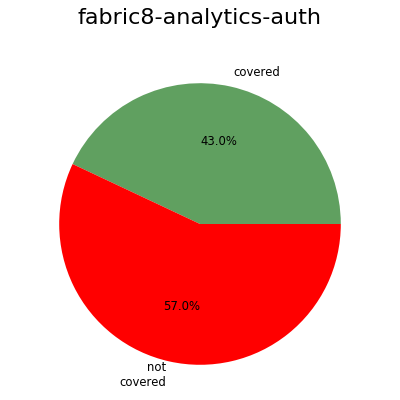
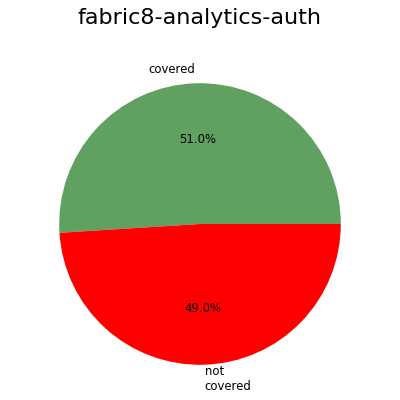
Dashboard 2018-06-04

diff --git a/dashboard/fabric8-analytics-auth.cc.A.html b/dashboard/fabric8-analytics-auth.cc.A.html
@@ -5,27 +5,34 @@
 tests/test_user_class.py
     <span style="color:#AA00AA">F </span>7:0 test_user_class - <span style="color:#00AA00">A (2)</span>
 tests/test_token_handling.py
-    <span style="color:#AA00AA">F </span>37:0 test_decode_token_invalid_input_2 - <span style="color:#00AA00">A (3)</span>
-    <span style="color:#AA00AA">F </span>45:0 test_decode_token_invalid_input_3 - <span style="color:#00AA00">A (3)</span>
-    <span style="color:#AA00AA">F </span>53:0 test_decode_token_invalid_input_4 - <span style="color:#00AA00">A (3)</span>
-    <span style="color:#AA00AA">F </span>61:0 test_decode_token_invalid_input_5 - <span style="color:#00AA00">A (3)</span>
-    <span style="color:#AA00AA">F </span>30:0 test_decode_token_invalid_input_1 - <span style="color:#00AA00">A (2)</span>
-    <span style="color:#AA00AA">F </span>10:0 mocked_fetch_public_key_1 - <span style="color:#00AA00">A (1)</span>
-    <span style="color:#AA00AA">F </span>15:0 mocked_fetch_public_key_2 - <span style="color:#00AA00">A (1)</span>
-    <span style="color:#AA00AA">F </span>20:0 mocked_get_audiences - <span style="color:#00AA00">A (1)</span>
-    <span style="color:#AA00AA">F </span>25:0 mocked_get_audiences_2 - <span style="color:#00AA00">A (1)</span>
+    <span style="color:#AA00AA">F </span>12:0 setup_module - <span style="color:#00AA00">A (4)</span>
+    <span style="color:#AA00AA">F </span>76:0 test_decode_token_invalid_input_2 - <span style="color:#00AA00">A (3)</span>
+    <span style="color:#AA00AA">F </span>84:0 test_decode_token_invalid_input_3 - <span style="color:#00AA00">A (3)</span>
+    <span style="color:#AA00AA">F </span>92:0 test_decode_token_invalid_input_4 - <span style="color:#00AA00">A (3)</span>
+    <span style="color:#AA00AA">F </span>100:0 test_decode_token_invalid_input_5 - <span style="color:#00AA00">A (3)</span>
+    <span style="color:#AA00AA">F </span>108:0 test_decode_token_invalid_input_6 - <span style="color:#00AA00">A (3)</span>
+    <span style="color:#AA00AA">F </span>121:0 test_decode_token_invalid_input_7 - <span style="color:#00AA00">A (3)</span>
+    <span style="color:#AA00AA">F </span>69:0 test_decode_token_invalid_input_1 - <span style="color:#00AA00">A (2)</span>
+    <span style="color:#AA00AA">F </span>135:0 test_decode_token_valid_input - <span style="color:#00AA00">A (2)</span>
+    <span style="color:#AA00AA">F </span>34:0 teardown_module - <span style="color:#00AA00">A (1)</span>
+    <span style="color:#AA00AA">F </span>39:0 mocked_fetch_public_key_1 - <span style="color:#00AA00">A (1)</span>
+    <span style="color:#AA00AA">F </span>44:0 mocked_fetch_public_key_2 - <span style="color:#00AA00">A (1)</span>
+    <span style="color:#AA00AA">F </span>49:0 mocked_fetch_public_key_3 - <span style="color:#00AA00">A (1)</span>
+    <span style="color:#AA00AA">F </span>54:0 mocked_get_audiences - <span style="color:#00AA00">A (1)</span>
+    <span style="color:#AA00AA">F </span>59:0 mocked_get_audiences_2 - <span style="color:#00AA00">A (1)</span>
+    <span style="color:#AA00AA">F </span>64:0 mocked_get_audiences_3 - <span style="color:#00AA00">A (1)</span>
 f8a_auth/f8a_auth.py
-    <span style="color:#AA00AA">F </span>50:0 decode_token - <span style="color:#00AA00">B (8)</span>
+    <span style="color:#AA00AA">F </span>50:0 decode_token - <span style="color:#00AA00">B (9)</span>
     <span style="color:#AA00AA">F </span>18:0 fetch_public_key - <span style="color:#00AA00">A (5)</span>
     <span style="color:#AA00AA">F </span>45:0 get_audiences - <span style="color:#00AA00">A (1)</span>
-    <span style="color:#AA00AA">F </span>82:0 get_token_from_auth_header - <span style="color:#00AA00">A (1)</span>
-    <span style="color:#AA00AA">F </span>87:0 login_required - <span style="color:#00AA00">A (1)</span>
-    <span style="color:#00AAAA">C </span>127:0 User - <span style="color:#00AA00">A (1)</span>
-    <span style="color:#00AA00">M </span>130:4 User.__init__ - <span style="color:#00AA00">A (1)</span>
+    <span style="color:#AA00AA">F </span>84:0 get_token_from_auth_header - <span style="color:#00AA00">A (1)</span>
+    <span style="color:#AA00AA">F </span>89:0 login_required - <span style="color:#00AA00">A (1)</span>
+    <span style="color:#00AAAA">C </span>129:0 User - <span style="color:#00AA00">A (1)</span>
+    <span style="color:#00AA00">M </span>132:4 User.__init__ - <span style="color:#00AA00">A (1)</span>
 f8a_auth/errors.py
     <span style="color:#00AAAA">C </span>4:0 HTTPError - <span style="color:#00AA00">A (1)</span>
     <span style="color:#00AA00">M </span>15:4 HTTPError.__init__ - <span style="color:#00AA00">A (1)</span>
 
-22 blocks (classes, functions, methods) analyzed.
-Average complexity: <span style="color:#00AA00">A (2.1363636363636362)</span>
+29 blocks (classes, functions, methods) analyzed.
+Average complexity: <span style="color:#00AA00">A (2.1724137931034484)</span>
 </pre>

diff --git a/dashboard/dashboard.html b/dashboard/dashboard.html
@@ -49,7 +49,7 @@
                                     <a href='https://ci.centos.org/job/devtools-test-end-to-end-prod-fabric8-analytics'>link</a>
                                 </td>
                             <td style="width:3ex">
-                                <a href='https://ci.centos.org/job/devtools-test-end-to-end-prod-fabric8-analytics'>94/100</a>
+                                <a href='https://ci.centos.org/job/devtools-test-end-to-end-prod-fabric8-analytics'>100/100</a>
                             </td>
                         </tr>
                     </table>
@@ -232,8 +232,8 @@
                                     </div>
                                 </a>
                             </td>
-                                <td class="numeric ok" style="width:6ex">1826</td>
-                                <td class="numeric error" style="width:6ex">891</td>
+                                <td class="numeric ok" style="width:6ex">1869</td>
+                                <td class="numeric error" style="width:6ex">924</td>
                                 <td class="numeric" style="width:16ex">
                                     <a href="fabric8-analytics-server.coverage.txt">
                                         <div class='progress-bar progress-bar-warning progress-bar-striped' style='width:58.35%'>
@@ -697,7 +697,7 @@
                         <tr>
                             <td style="width:34ex"><a href="https://github.com/fabric8-analytics/fabric8-analytics-auth">fabric8-analytics-auth</a></td>
                             <td class="numeric" style="width:7ex"><a href="repository_fabric8-analytics-auth.html">8</a></td>
-                            <td class="numeric" style="width:7ex">292</td>
+                            <td class="numeric" style="width:7ex">373</td>
                             <td class="numeric ok" style="width:6ex">8</td>
                             <td class="numeric error" style="width:6ex">0</td>
                             <td class="numeric" style="width:16ex">
@@ -716,17 +716,17 @@
                                     </div>
                                 </a>
                             </td>
-                                <td class="numeric ok" style="width:6ex">89</td>
-                                <td class="numeric error" style="width:6ex">51</td>
+                                <td class="numeric ok" style="width:6ex">91</td>
+                                <td class="numeric error" style="width:6ex">45</td>
                                 <td class="numeric" style="width:16ex">
                                     <a href="fabric8-analytics-auth.coverage.txt">
-                                        <div class='progress-bar progress-bar-warning progress-bar-striped' style='width:51.55%'>
-                                        43%
+                                        <div class='progress-bar progress-bar-warning progress-bar-striped' style='width:58.35%'>
+                                        51%
                                         </div>
                                     </a>
                                 </td>
 
-                                <td class="numeric ignored" style="width:3ex;padding-left:0px;padding-right:2px;"><a href="fabric8-analytics-auth.cc.A.html" class="numeric ignored">21</a></td>
+                                <td class="numeric ignored" style="width:3ex;padding-left:0px;padding-right:2px;"><a href="fabric8-analytics-auth.cc.A.html" class="numeric ignored">28</a></td>
                                 <td class="numeric ignored" style="width:3ex;padding-left:0px;padding-right:2px;"><a href="fabric8-analytics-auth.cc.B.html" class="numeric ignored">1</a></td>
                                 <td class="numeric ignored" style="width:3ex;padding-left:0px;padding-right:2px;"><a href="fabric8-analytics-auth.cc.C.html" class="numeric ignored">0</a></td>
 
@@ -814,7 +814,7 @@
                                     </div>
                                 </a>
                             </td>
-                                <td class="numeric ok" style="width:6ex">178</td>
+                                <td class="numeric ok" style="width:6ex">182</td>
                                 <td class="numeric error" style="width:6ex">0</td>
                                 <td class="numeric" style="width:16ex">
                                     <a href="fabric8-analytics-version-comparator.coverage.txt">
@@ -1244,7 +1244,7 @@
             </div>
             <div style='height:100px'></div>
             <div>Author: Pavel Tisnovsky &lt;<a href="mailto:ptisnovs@redhat.com">ptisnovs@redhat.com</a>&gt;</div>
-            <div>Generated on: 2018-06-01 09:34:51</div>
+            <div>Generated on: 2018-06-04 10:58:25</div>
         </div>
         <script type="text/javascript">
         $(function () {

diff --git a/dashboard/repository_fabric8-analytics-auth.html b/dashboard/repository_fabric8-analytics-auth.html
@@ -44,7 +44,7 @@
                     </tr>
                     <tr>
                         <td><a href="https://github.com/fabric8-analytics/fabric8-analytics-auth/blob/master/tests/test_token_handling.py">tests/test_token_handling.py</a></td>
-                        <td class="numeric">74</td>
+                        <td class="numeric">153</td>
                             <td class="boolean ok">&#x2713;</td>
                             <td class="boolean ok">&#x2713;</td>
                     </tr>
@@ -56,7 +56,7 @@
                     </tr>
                     <tr>
                         <td><a href="https://github.com/fabric8-analytics/fabric8-analytics-auth/blob/master/f8a_auth/f8a_auth.py">f8a_auth/f8a_auth.py</a></td>
-                        <td class="numeric">132</td>
+                        <td class="numeric">134</td>
                             <td class="boolean ok">&#x2713;</td>
                             <td class="boolean ok">&#x2713;</td>
                     </tr>
@@ -76,7 +76,7 @@
             </div>
             <div style='height:100px'></div>
             <div>Author: Pavel Tisnovsky &lt;<a href="mailto:ptisnovs@redhat.com">ptisnovs@redhat.com</a>&gt;</div>
-            <div>Generated on: 2018-06-01 09:34:51</div>
+            <div>Generated on: 2018-06-04 10:58:25</div>
         </div>
     </body>
 </html>

diff --git a/dashboard/fabric8-analytics-auth.mi.A.html b/dashboard/fabric8-analytics-auth.mi.A.html
@@ -2,8 +2,8 @@
 tests/test_errors_class.py - <span style="color:#00AA00">A (61.48)</span>
 tests/test_user_class.py - <span style="color:#00AA00">A (91.90)</span>
 tests/tests.py - <span style="color:#00AA00">A (100.00)</span>
-tests/test_token_handling.py - <span style="color:#00AA00">A (50.26)</span>
+tests/test_token_handling.py - <span style="color:#00AA00">A (51.47)</span>
 f8a_auth/__init__.py - <span style="color:#00AA00">A (100.00)</span>
-f8a_auth/f8a_auth.py - <span style="color:#00AA00">A (53.88)</span>
+f8a_auth/f8a_auth.py - <span style="color:#00AA00">A (52.98)</span>
 f8a_auth/errors.py - <span style="color:#00AA00">A (100.00)</span>
 </pre>

diff --git a/dashboard/fabric8-analytics-auth.cc.B.html b/dashboard/fabric8-analytics-auth.cc.B.html
@@ -1,6 +1,6 @@
 <pre>f8a_auth/f8a_auth.py
-    <span style="color:#AA00AA">F </span>50:0 decode_token - <span style="color:#00AA00">B (8)</span>
+    <span style="color:#AA00AA">F </span>50:0 decode_token - <span style="color:#00AA00">B (9)</span>
 
 1 blocks (classes, functions, methods) analyzed.
-Average complexity: <span style="color:#00AA00">B (8.0)</span>
+Average complexity: <span style="color:#00AA00">B (9.0)</span>
 </pre>

diff --git a/dashboard/repository_f8a-server-backbone.html b/dashboard/repository_f8a-server-backbone.html
@@ -106,7 +106,7 @@
             </div>
             <div style='height:100px'></div>
             <div>Author: Pavel Tisnovsky &lt;<a href="mailto:ptisnovs@redhat.com">ptisnovs@redhat.com</a>&gt;</div>
-            <div>Generated on: 2018-06-01 09:34:51</div>
+            <div>Generated on: 2018-06-04 10:58:25</div>
         </div>
     </body>
 </html>

diff --git a/dashboard/repository_fabric8-analytics-common.html b/dashboard/repository_fabric8-analytics-common.html
@@ -616,7 +616,7 @@
             </div>
             <div style='height:100px'></div>
             <div>Author: Pavel Tisnovsky &lt;<a href="mailto:ptisnovs@redhat.com">ptisnovs@redhat.com</a>&gt;</div>
-            <div>Generated on: 2018-06-01 09:34:51</div>
+            <div>Generated on: 2018-06-04 10:58:25</div>
         </div>
     </body>
 </html>

diff --git a/dashboard/repository_fabric8-analytics-data-model.html b/dashboard/repository_fabric8-analytics-data-model.html
@@ -148,7 +148,7 @@
             </div>
             <div style='height:100px'></div>
             <div>Author: Pavel Tisnovsky &lt;<a href="mailto:ptisnovs@redhat.com">ptisnovs@redhat.com</a>&gt;</div>
-            <div>Generated on: 2018-06-01 09:34:51</div>
+            <div>Generated on: 2018-06-04 10:58:25</div>
         </div>
     </body>
 </html>

diff --git a/dashboard/repository_fabric8-analytics-ingestion.html b/dashboard/repository_fabric8-analytics-ingestion.html
@@ -106,7 +106,7 @@
             </div>
             <div style='height:100px'></div>
             <div>Author: Pavel Tisnovsky &lt;<a href="mailto:ptisnovs@redhat.com">ptisnovs@redhat.com</a>&gt;</div>
-            <div>Generated on: 2018-06-01 09:34:51</div>
+            <div>Generated on: 2018-06-04 10:58:25</div>
         </div>
     </body>
 </html>

diff --git a/dashboard/repository_fabric8-analytics-jobs.html b/dashboard/repository_fabric8-analytics-jobs.html
@@ -274,7 +274,7 @@
             </div>
             <div style='height:100px'></div>
             <div>Author: Pavel Tisnovsky &lt;<a href="mailto:ptisnovs@redhat.com">ptisnovs@redhat.com</a>&gt;</div>
-            <div>Generated on: 2018-06-01 09:34:51</div>
+            <div>Generated on: 2018-06-04 10:58:25</div>
         </div>
     </body>
 </html>

diff --git a/dashboard/repository_fabric8-analytics-license-analysis.html b/dashboard/repository_fabric8-analytics-license-analysis.html
@@ -202,7 +202,7 @@
             </div>
             <div style='height:100px'></div>
             <div>Author: Pavel Tisnovsky &lt;<a href="mailto:ptisnovs@redhat.com">ptisnovs@redhat.com</a>&gt;</div>
-            <div>Generated on: 2018-06-01 09:34:51</div>
+            <div>Generated on: 2018-06-04 10:58:25</div>
         </div>
     </body>
 </html>

diff --git a/dashboard/repository_fabric8-analytics-npm-insights.html b/dashboard/repository_fabric8-analytics-npm-insights.html
@@ -148,7 +148,7 @@
             </div>
             <div style='height:100px'></div>
             <div>Author: Pavel Tisnovsky &lt;<a href="mailto:ptisnovs@redhat.com">ptisnovs@redhat.com</a>&gt;</div>
-            <div>Generated on: 2018-06-01 09:34:51</div>
+            <div>Generated on: 2018-06-04 10:58:25</div>
         </div>
     </body>
 </html>
